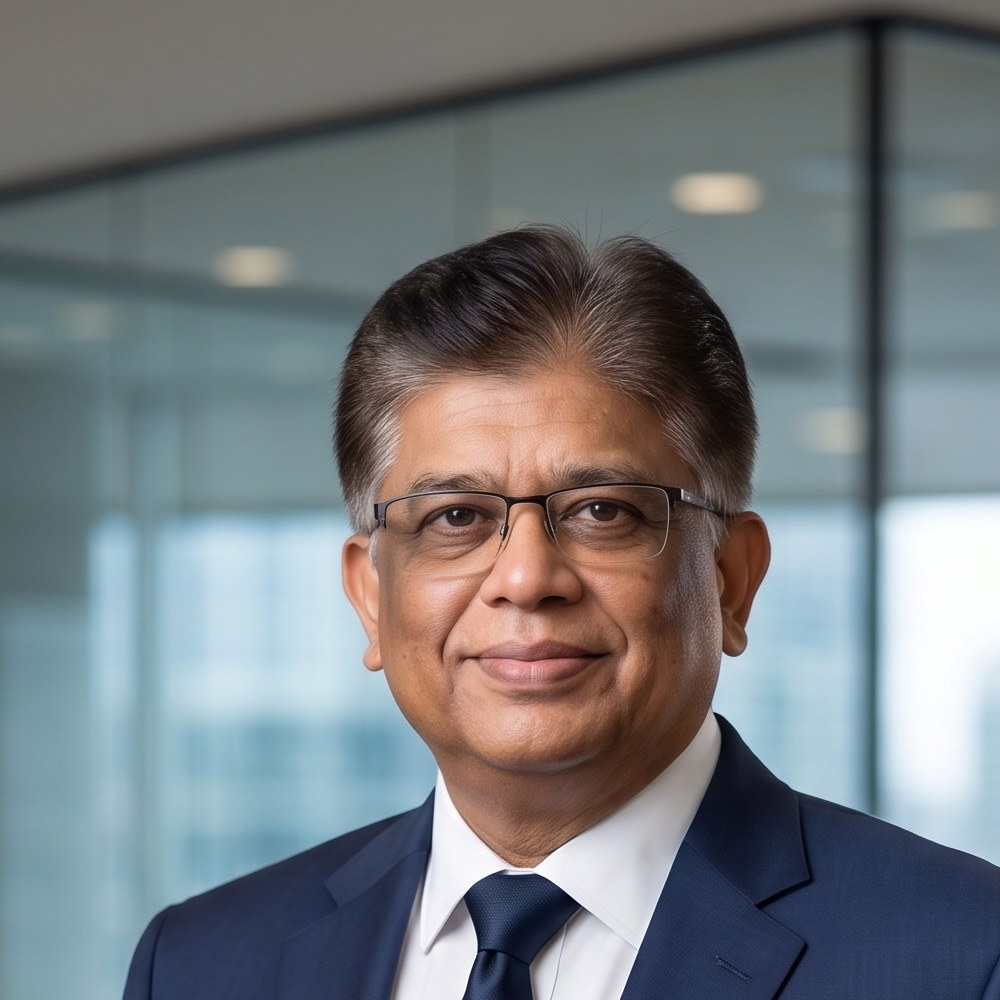
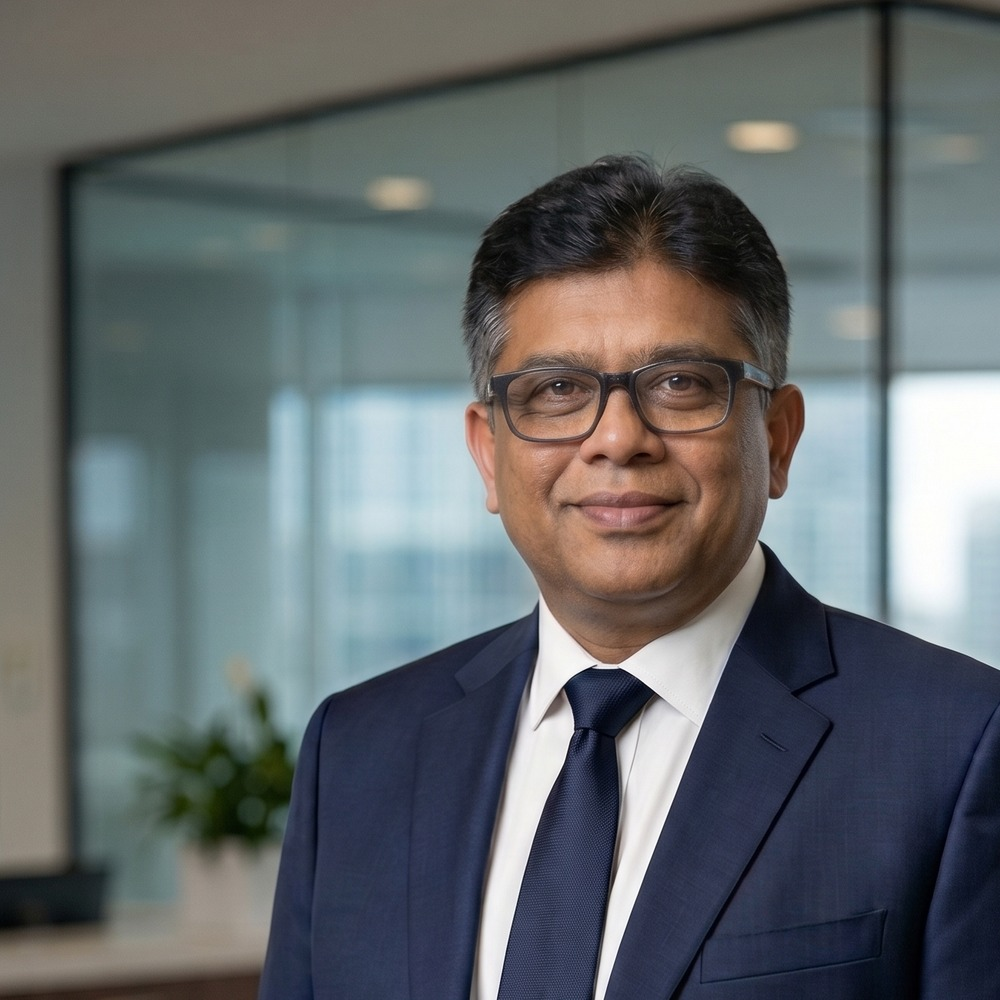
feat: update founder image and enhance Home component mantra for improved messaging

diff --git a/src/app/founder/page.tsx b/src/app/founder/page.tsx
@@ -206,7 +206,7 @@ export default function FounderPage() {
               <Reveal as="div" className={styles.heroPortraitWrap}>
                 <div className={styles.heroPortraitFrame}>
                   <Image
-                    src="/founder-portrait.jpg"
+                    src="/founder_new.png"
                     alt="Dr. Himank Priyadarshi, Founder and CEO, Performance Dimensions Global"
                     fill
                     sizes="(max-width: 900px) 100vw, 420px"

diff --git a/src/app/about/page.tsx b/src/app/about/page.tsx
@@ -153,7 +153,7 @@ export default function About() {
               <Reveal as="div" className={styles.bioLeft}>
                 <div className={styles.bioPhotoFrame}>
                   <Image
-                    src="/founder-portrait.jpg"
+                    src="/founder_new.png"
                     alt="Himank Priyadarshi, Ph.D. — Founder and CEO, Performance Dimensions Global"
                     fill
                     sizes="(max-width: 900px) 100vw, 380px"

diff --git a/src/app/page.tsx b/src/app/page.tsx
@@ -120,7 +120,7 @@ export default function Home() {
               <Reveal className={styles.introLeft}>
                 <span className={styles.sectionEyebrow}>O U R &nbsp; M A N T R A</span>
                 <h2 className={styles.sectionTitle}>
-                  Our success depends on your success.
+                  Your Success is Our Success
                 </h2>
               </Reveal>
               <Reveal delay={120} className={styles.introRight}>
